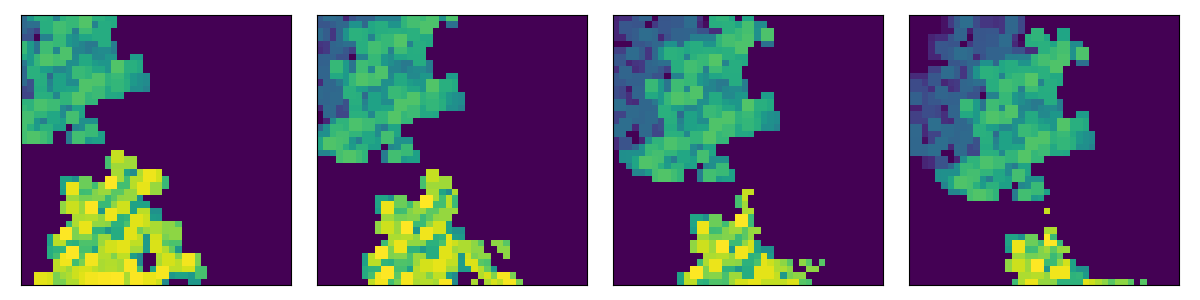
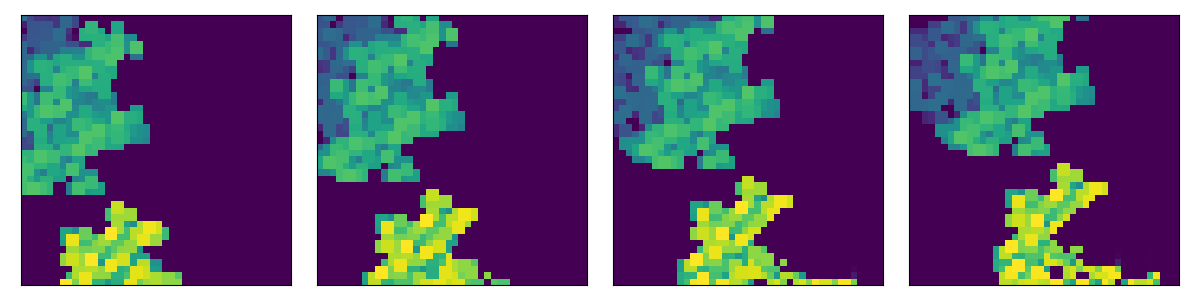
Consistent README examples

diff --git a/README.md b/README.md
@@ -189,7 +189,7 @@ Shifting causes the boundaries to be NaNs.
     python utils/crop_rasters.py \
         -i out/example_timeseries.npz \        # Path to input raster
         -o out/example_timeseries_crop.npz \   # To save cropped raster
-        --low_row 8 \                          # Lower index of rows 
+        --high_row 42 \                        # Lower index of rows 
         --low_col 8                            # Lower index of cols
 
     python utils/plot_samples.py \
